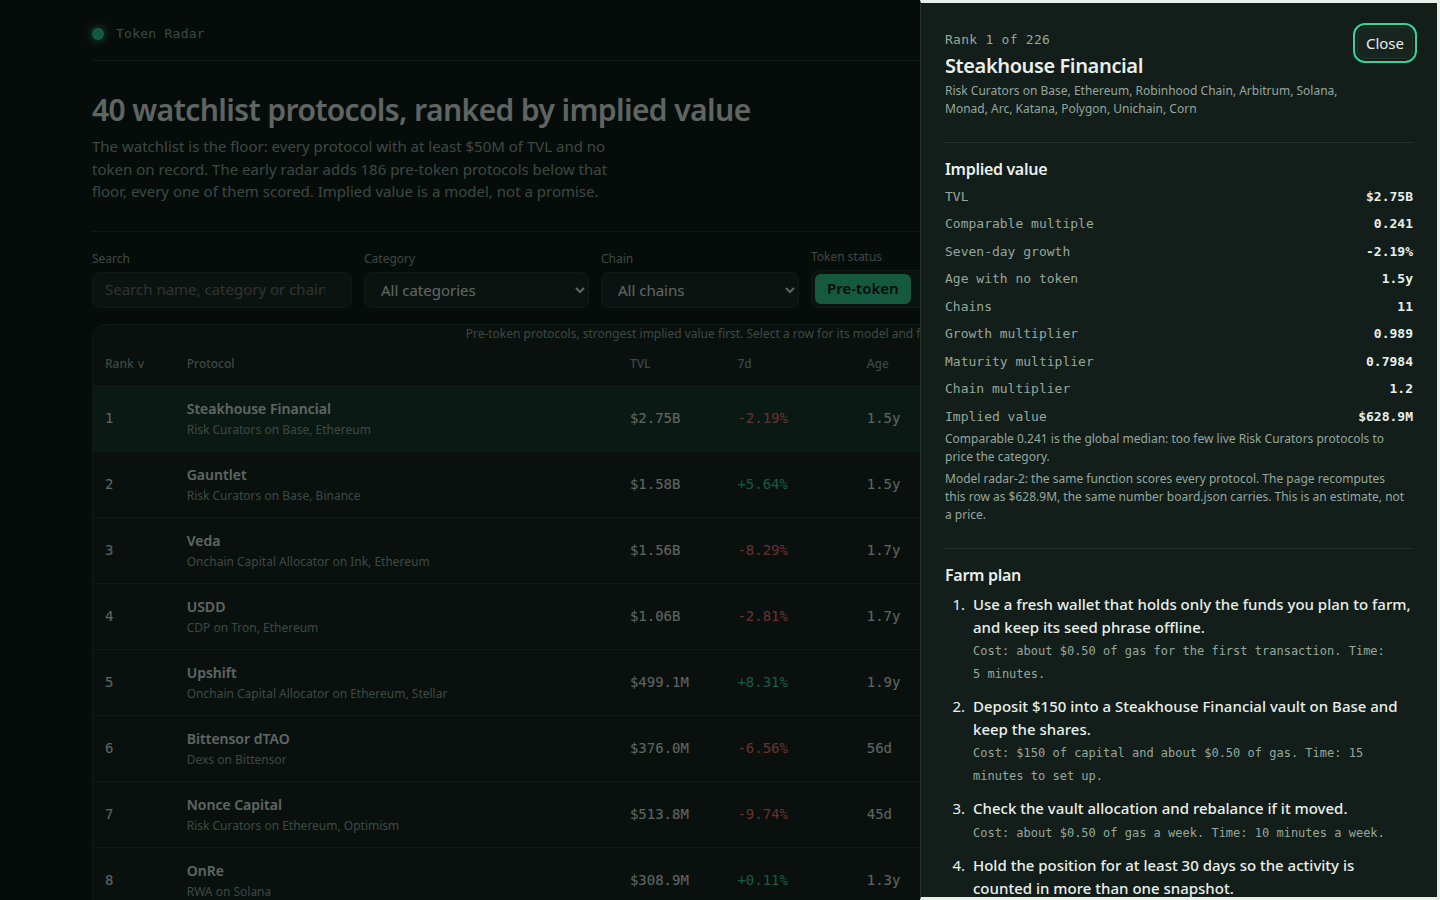
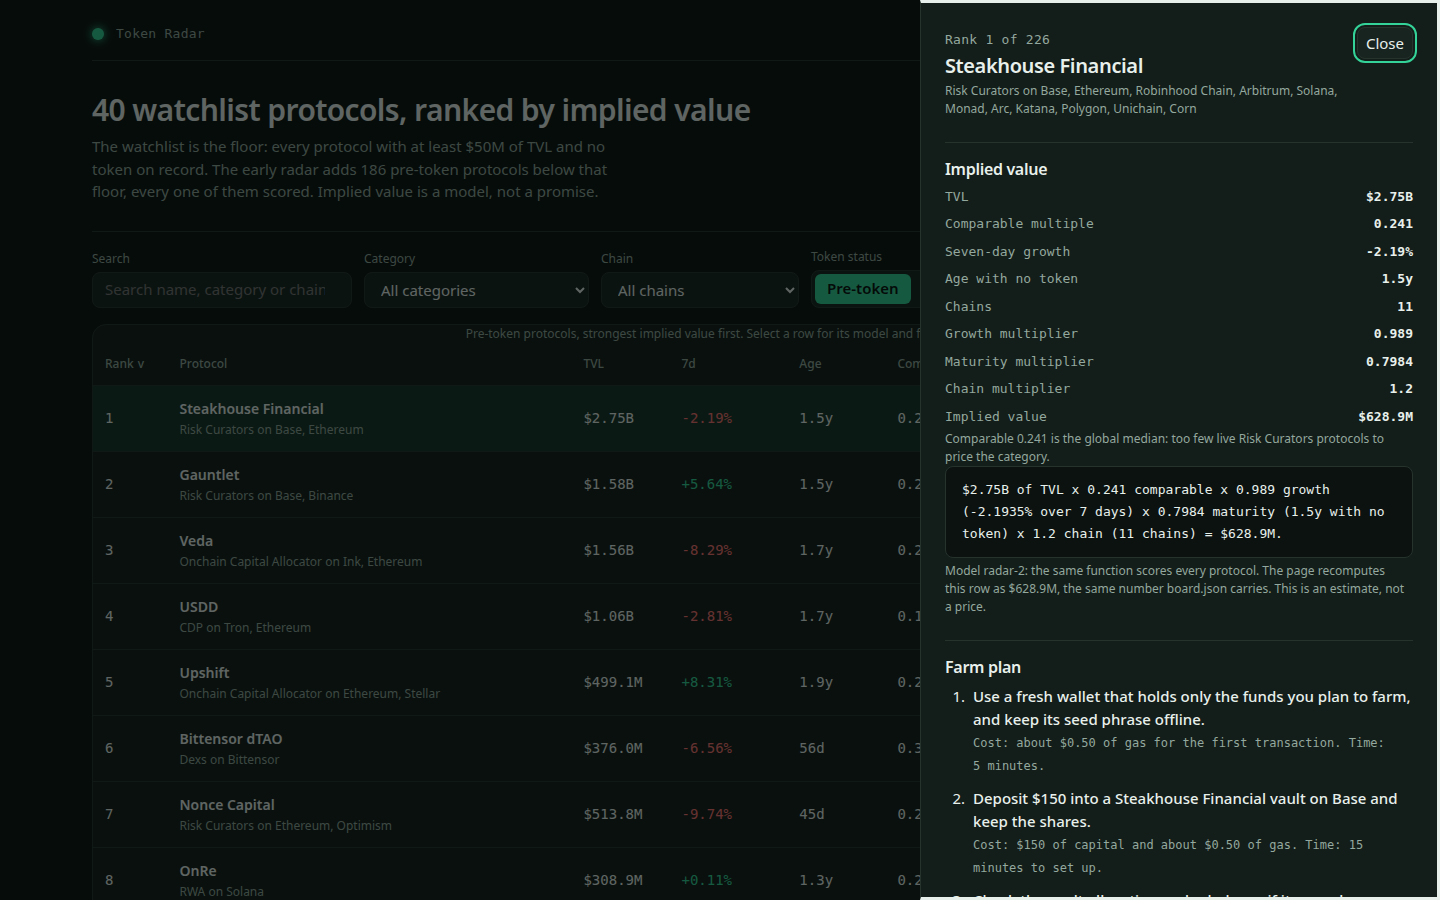
radar-2: category breakdown, per-row derivation, watchlist toggle, live ratios
- lib/model.ts: explainRow (one-sentence derivation per row), categoryBreakdown
  (board grouped by category, richest first), comparableStats (how the
  multiples spread), LiveRow.ratio (each live protocol's own mcap/TVL),
  watchlist_slugs in the dashboard data.
- dashboard: category table below the board (click a category to filter),
  Comparable column on the board, Mcap/TVL column on the live view,
  watchlist-only toggle, derivation sentence in the detail drawer,
  comparables spread in the model panel.
- main.ts prints the three richest categories; README gains a how-to-read
  section.

diff --git a/dashboard/app.js b/dashboard/app.js
@@ -8,7 +8,7 @@
   var DATA = window.RADAR;
   if (!DATA) return;
   var app = document.getElementById('board');
-  var state = { q: '', category: 'all', chain: 'all', tab: 'pre-token', sort: 'implied', dir: -1, selected: null };
+  var state = { q: '', category: 'all', chain: 'all', watchlistOnly: false, tab: 'pre-token', sort: 'implied', dir: -1, selected: null };
   // The sandbox: a scale on the comparable multiple, an override for the growth weight, and the
   // chain factor on or off. All three at their defaults mean the board as scored; any change
   // re-ranks the table live and says so, without touching board.json.
@@ -180,7 +180,10 @@
 
   function rows() {
     var q = state.q.trim().toLowerCase();
+    var watch = {};
+    (DATA.watchlist_slugs || []).forEach(function (s) { watch[s] = true; });
     return DATA.rows.filter(function (r) {
+      if (state.watchlistOnly && !watch[r.slug]) return false;
       if (state.category !== 'all' && r.category !== state.category) return false;
       if (state.chain !== 'all' && (r.chains || []).indexOf(state.chain) < 0) return false;
       if (!q) return true;
@@ -248,6 +251,7 @@
     chainSelect.addEventListener('change', function () { state.chain = chainSelect.value; writeHash(); render(); });
     var pre = el('button', { type: 'button', 'aria-pressed': state.tab === 'pre-token' ? 'true' : 'false', text: 'Pre-token', onclick: function () { state.tab = 'pre-token'; render(); } });
     var live = el('button', { type: 'button', 'aria-pressed': state.tab === 'live' ? 'true' : 'false', text: 'Live token', onclick: function () { state.tab = 'live'; render(); } });
+    var watchToggle = el('button', { type: 'button', 'aria-pressed': state.watchlistOnly ? 'true' : 'false', text: state.watchlistOnly ? 'Watchlist only' : 'Watchlist + early', onclick: function () { state.watchlistOnly = !state.watchlistOnly; render(); } });
     var countText = state.tab === 'pre-token' ? rows().length + ' rows shown' : DATA.live.length + ' live-token protocols';
     if (state.tab === 'pre-token' && sandboxActive()) countText += '  ·  sandbox values';
     return el('div', { class: 'controls' },
@@ -255,6 +259,7 @@
       el('div', { class: 'field' }, el('label', { for: 'category', text: 'Category' }), select),
       el('div', { class: 'field' }, el('label', { for: 'chain', text: 'Chain' }), chainSelect),
       el('div', { class: 'field' }, el('span', { class: 'sub', text: 'Token status' }), el('div', { class: 'tabs' }, pre, live)),
+      el('div', { class: 'field' }, el('span', { class: 'sub', text: 'Board scope' }), el('div', { class: 'tabs' }, watchToggle)),
       el('span', { class: 'count', text: countText })
     );
   }
@@ -297,6 +302,7 @@
         el('td', { class: 'num', text: fmtUsd(r.tvl_usd) }),
         el('td', { class: 'num ' + growthClass, text: growth }),
         el('td', { class: 'num', text: fmtAge(r.age_days) }),
+        el('td', { class: 'num', text: String(r.comparable_multiple) }),
         el('td', null, el('div', { class: 'implied' },
           el('div', { class: 'bar', 'aria-hidden': 'true' }, el('i', { style: 'width:' + Math.max(3, Math.round((effImplied(r) / max) * 100)) + '%' })),
           el('span', { class: 'num', text: fmtUsd(effImplied(r)) })
@@ -315,6 +321,7 @@
             sortHeader('tvl', 'TVL'),
             sortHeader('growth', '7d'),
             sortHeader('age', 'Age'),
+            el('th', { scope: 'col', text: 'Comparable' }),
             sortHeader('implied', 'Implied value'),
             el('th', { scope: 'col', text: 'Token' })
           )),
@@ -333,6 +340,7 @@
         el('td', { class: 'num', text: fmtUsd(r.tvl_usd) }),
         el('td', { class: 'num ' + (r.change_7d !== null && r.change_7d >= 0 ? 'pos' : 'neg'), text: fmtPct(r.change_7d) }),
         el('td', { class: 'num', text: fmtUsd(r.mcap_usd) }),
+        el('td', { class: 'num', text: r.ratio === null || r.ratio === undefined ? 'n/a' : String(r.ratio) }),
         el('td', null, el('span', { class: 'status', text: 'already trades' }))
       ));
     });
@@ -340,7 +348,50 @@
       el('div', { class: 'table-wrap' },
         el('table', null,
           el('caption', { class: 'sub', text: 'Token live: these protocols already trade, so their market cap is a fact, not a model. They are set aside from the pre-token ranking.' }),
-          el('thead', null, el('tr', null, el('th', { scope: 'col', text: 'Status' }), el('th', { scope: 'col', text: 'Protocol' }), el('th', { scope: 'col', text: 'TVL' }), el('th', { scope: 'col', text: '7d' }), el('th', { scope: 'col', text: 'Market cap' }), el('th', { scope: 'col', text: 'Token' }))),
+          el('thead', null, el('tr', null, el('th', { scope: 'col', text: 'Status' }), el('th', { scope: 'col', text: 'Protocol' }), el('th', { scope: 'col', text: 'TVL' }), el('th', { scope: 'col', text: '7d' }), el('th', { scope: 'col', text: 'Market cap' }), el('th', { scope: 'col', text: 'Mcap / TVL' }), el('th', { scope: 'col', text: 'Token' }))),
+          tbody
+        )
+      )
+    );
+  }
+
+  // The board grouped by category, richest first: which categories hold the implied value, what
+  // multiple priced each one, and its strongest protocol. A category priced from its own live
+  // protocols shows its count; a fallback category shows the global median instead.
+  function categoryPanel() {
+    var cats = DATA.categories || [];
+    if (cats.length === 0) return null;
+    var tbody = el('tbody');
+    cats.forEach(function (c) {
+      var comp = c.comparable_n > 0 ? String(c.comparable_multiple) + ' (' + c.comparable_n + ' live)' : String(c.comparable_multiple) + ' (global)';
+      tbody.appendChild(el('tr', {
+        tabindex: '0',
+        onclick: function () { state.category = c.category; writeHash(); render(); },
+        onkeydown: function (e) { if (e.key === 'Enter' || e.key === ' ') { e.preventDefault(); state.category = c.category; writeHash(); render(); } }
+      },
+        el('td', null, el('b', { text: c.category })),
+        el('td', { class: 'num', text: String(c.rows) }),
+        el('td', { class: 'num', text: String(c.watchlist_rows) }),
+        el('td', { class: 'num', text: comp }),
+        el('td', { class: 'num', text: fmtUsd(c.total_implied_usd) }),
+        el('td', null, el('span', { class: 'sub', text: c.top_name }))
+      ));
+    });
+    return el('section', { class: 'panel cats' },
+      el('div', { class: 'cats-head' },
+        el('h2', { text: 'Implied value by category' }),
+        el('p', { class: 'sub', text: 'Select a category to filter the board to it. The multiple is the category’s own median market-cap / TVL among its live protocols, or the global median where the category is too thin to price itself.' })
+      ),
+      el('div', { class: 'table-wrap' },
+        el('table', null,
+          el('thead', null, el('tr', null,
+            el('th', { scope: 'col', text: 'Category' }),
+            el('th', { scope: 'col', text: 'Protocols' }),
+            el('th', { scope: 'col', text: 'On watchlist' }),
+            el('th', { scope: 'col', text: 'Comparable' }),
+            el('th', { scope: 'col', text: 'Total implied value' }),
+            el('th', { scope: 'col', text: 'Strongest protocol' })
+          )),
           tbody
         )
       )
@@ -354,7 +405,8 @@
       el('h2', { text: 'How implied value is computed' }),
       el('p', { class: 'sub', text: 'Every row is scored by one function of the snapshot figures. No protocol name is special-cased, and no row is hand-picked.' }),
       el('div', { class: 'formula' }, formula),
-      el('p', { class: 'sub', text: 'The comparable is the category’s own multiple: the median market-cap / TVL ratio of the live-token protocols in that category in this same snapshot. A pre-token DEX is worth what live DEXs trade at per dollar of TVL; a pre-token lender is worth what live lenders trade at. Categories with fewer than three live protocols fall back to the global median, ' + DATA.global_comparable + '. The multiple is clamped to [' + m.comparable_floor + ', ' + m.comparable_cap + '] and rounded to four decimals when it is scored. Age is the time since the protocol was first listed, the best record of how long it has run with no token; an unlisted age uses ' + m.unknown_age_days + ' days. The early radar is every pre-token protocol below the watchlist floor, and the live-token protocols are set aside with their market caps shown.' })
+      el('p', { class: 'sub', text: 'The comparable is the category’s own multiple: the median market-cap / TVL ratio of the live-token protocols in that category in this same snapshot. A pre-token DEX is worth what live DEXs trade at per dollar of TVL; a pre-token lender is worth what live lenders trade at. Categories with fewer than three live protocols fall back to the global median, ' + DATA.global_comparable + '. The multiple is clamped to [' + m.comparable_floor + ', ' + m.comparable_cap + '] and rounded to four decimals when it is scored. Age is the time since the protocol was first listed, the best record of how long it has run with no token; an unlisted age uses ' + m.unknown_age_days + ' days. The early radar is every pre-token protocol below the watchlist floor, and the live-token protocols are set aside with their market caps shown.' }),
+      el('p', { class: 'sub', text: 'Across the ' + DATA.categories.length + ' categories on the board, ' + DATA.comparable_stats.categories_priced + ' price themselves from their own live protocols and ' + DATA.comparable_stats.categories_fallback + ' fall back to the global median. The multiples run from ' + DATA.comparable_stats.min_multiple + ' to ' + DATA.comparable_stats.max_multiple + ', median ' + DATA.comparable_stats.median_multiple + '.' })
     );
     // The sandbox: three controls that re-score the board in the page, under different assumptions.
     var scaleOut = el('output', { id: 'sandbox-scale-out', text: 'x' + sandbox.scale.toFixed(2) });
@@ -417,6 +469,7 @@
         el('div', null, el('span', { text: 'Implied value' }), el('b', { class: 'num', text: fmtUsd(row.implied_value_usd) }))
       ),
       el('p', { class: 'sub', text: compNote + '. ' }),
+      el('p', { class: 'explain', text: row.explanation || '' }),
       el('p', { class: 'sub', text: 'Model ' + DATA.model_version + ': the same function scores every protocol. The page recomputes this row as ' + fmtUsd(recomputed) + (recomputed === row.implied_value_usd ? ', the same number board.json carries.' : ', which differs from the board: the sandbox is on, or the data would be stale.') + ' This is an estimate, not a price.' })
     ));
     dialog.appendChild(el('section', { class: 'detail-section' },
@@ -442,7 +495,11 @@
     shell.appendChild(lede());
     shell.appendChild(controls());
     shell.appendChild(state.tab === 'pre-token' ? boardTable() : liveTable());
-    if (state.tab === 'pre-token') shell.appendChild(modelPanel());
+    if (state.tab === 'pre-token') {
+      var cats = categoryPanel();
+      if (cats) shell.appendChild(cats);
+      shell.appendChild(modelPanel());
+    }
     app.appendChild(shell);
     app.setAttribute('aria-busy', 'false');
     if (!dialog.isConnected) app.appendChild(dialog);

diff --git a/lib/model.ts b/lib/model.ts
@@ -123,6 +123,8 @@ export interface BoardRow {
     age_days: number | null;
   };
   farm_steps: string[];
+  /** The row's derivation as a sentence, for the detail view. */
+  explanation: string;
 }
 
 /** The dashboard's compact view of one row, with farm plans generated in the page. */
@@ -144,6 +146,8 @@ export interface RadarRow {
   growth_multiplier: number;
   maturity_multiplier: number;
   chain_multiplier: number;
+  /** The row's derivation as a sentence, for the detail view. */
+  explanation: string;
 }
 
 /** A live-token protocol: it already trades, so the board shows the market's own value, not a model's. */
@@ -155,6 +159,8 @@ export interface LiveRow {
   tvl_usd: number;
   mcap_usd: number | null;
   change_7d: number | null;
+  /** The market-cap / TVL ratio this protocol itself trades at: the comparable its category is priced from. */
+  ratio: number | null;
 }
 
 /** Everything the dashboard needs: the board, the live set, and the model it runs. */
@@ -165,10 +171,16 @@ export interface RadarData {
   model: ModelConstants;
   model_version: string;
   watchlist_size: number;
+  /** The watchlist's slugs, so the page can filter to the watchlist alone. */
+  watchlist_slugs: string[];
   board_size: number;
   early_size: number;
   live_size: number;
   global_comparable: number;
+  /** The board grouped by category, richest first, for the dashboard's category table. */
+  categories: CategoryStat[];
+  /** How the comparables themselves spread, for the model panel. */
+  comparable_stats: ComparableStats;
   rows: RadarRow[];
   live: LiveRow[];
 }
@@ -259,6 +271,97 @@ export function comparableFor(p: SnapshotProtocol, comparables: Comparables): Co
   return { multiple: comparables.global, n: 0 };
 }
 
+/** A dollar figure as the explanation writes it: $2.75B, $543.6M, $214.2M. */
+function fmtUsd(n: number): string {
+  if (!Number.isFinite(n)) return 'n/a';
+  if (Math.abs(n) >= 1e9) return `$${(n / 1e9).toFixed(2)}B`;
+  if (Math.abs(n) >= 1e6) return `$${(n / 1e6).toFixed(1)}M`;
+  if (Math.abs(n) >= 1e3) return `$${Math.round(n / 1e3)}K`;
+  return `$${Math.round(n)}`;
+}
+
+/** An age in days as the explanation writes it: 1.5y, 45d, unknown. */
+function fmtAge(days: number | null): string {
+  if (days === null) return 'unknown';
+  if (days >= 365) return `${(days / 365).toFixed(1)}y`;
+  return `${Math.max(0, Math.round(days))}d`;
+}
+
+/** One row's derivation as a sentence: the arithmetic the detail view shows, in words. */
+export function explainRow(row: BoardRow): string {
+  const m = row.model;
+  const growth = m.growth_pct >= 0 ? `+${m.growth_pct}%` : `${m.growth_pct}%`;
+  const chains = `${row.chains.length} chain${row.chains.length === 1 ? '' : 's'}`;
+  return `${fmtUsd(row.tvl_usd)} of TVL x ${m.comparable_multiple} comparable x ${m.growth_multiplier} growth (${growth} over 7 days) x ${m.maturity_multiplier} maturity (${fmtAge(m.age_days)} with no token) x ${m.chain_multiplier} chain (${chains}) = ${fmtUsd(row.implied_value_usd)}.`;
+}
+
+/** One category's share of the board: how many rows, what multiple priced them, what they are worth together. */
+export interface CategoryStat {
+  category: string;
+  rows: number;
+  watchlist_rows: number;
+  comparable_multiple: number;
+  comparable_n: number;
+  total_implied_usd: number;
+  top_slug: string;
+  top_name: string;
+}
+
+/** The board grouped by category, richest first: the dashboard's category table. */
+export function categoryBreakdown(board: BoardRow[], watchlist: string[]): CategoryStat[] {
+  const byCat = new Map<string, BoardRow[]>();
+  for (const r of board) {
+    const key = r.category ?? 'Other';
+    const list = byCat.get(key);
+    if (list === undefined) byCat.set(key, [r]);
+    else list.push(r);
+  }
+  const watch = new Set(watchlist);
+  const stats = [...byCat.entries()].map(([category, rows]) => {
+    const sorted = [...rows].sort((a, b) => b.implied_value_usd - a.implied_value_usd);
+    const top = sorted[0]!;
+    return {
+      category,
+      rows: rows.length,
+      watchlist_rows: rows.filter((r) => watch.has(r.slug)).length,
+      comparable_multiple: top.model.comparable_multiple,
+      comparable_n: top.model.comparable_n,
+      total_implied_usd: rows.reduce((sum, r) => sum + r.implied_value_usd, 0),
+      top_slug: top.slug,
+      top_name: top.name,
+    };
+  });
+  stats.sort((a, b) => b.total_implied_usd - a.total_implied_usd || (a.category < b.category ? -1 : a.category > b.category ? 1 : 0));
+  return stats;
+}
+
+/** How the comparables themselves spread: how many categories price themselves, and the range of multiples. */
+export interface ComparableStats {
+  categories_priced: number;
+  categories_fallback: number;
+  min_multiple: number;
+  median_multiple: number;
+  max_multiple: number;
+}
+
+/** The comparables' own summary, from the categories the board actually holds. */
+export function comparableStats(board: BoardRow[], comparables: Comparables): ComparableStats {
+  const seen = new Map<string, number>();
+  for (const r of board) {
+    const key = r.category ?? 'Other';
+    if (!seen.has(key)) seen.set(key, r.model.comparable_multiple);
+  }
+  const multiples = [...seen.values()].sort((a, b) => a - b);
+  const priced = [...seen.keys()].filter((c) => comparables.byCategory.has(c)).length;
+  return {
+    categories_priced: priced,
+    categories_fallback: seen.size - priced,
+    min_multiple: multiples[0] ?? comparables.global,
+    median_multiple: multiples.length > 0 ? median(multiples) : comparables.global,
+    max_multiple: multiples[multiples.length - 1] ?? comparables.global,
+  };
+}
+
 /** The four multipliers and the implied value one protocol gets under `model`. */
 export function impliedValue(
   protocol: SnapshotProtocol,
@@ -330,7 +433,7 @@ export function buildBoard(snapshot: Snapshot, model: ModelConstants = MODEL): B
     return { p, implied, comparable, growthPct, growthMult, maturityMult, chainMult, age };
   });
   scored.sort((a, b) => b.implied - a.implied || (a.p.slug < b.p.slug ? -1 : a.p.slug > b.p.slug ? 1 : 0));
-  return scored.map((s, i) => ({
+  const rows: BoardRow[] = scored.map((s, i) => ({
     rank: i + 1,
     slug: s.p.slug,
     name: s.p.name,
@@ -355,7 +458,11 @@ export function buildBoard(snapshot: Snapshot, model: ModelConstants = MODEL): B
       age_days: s.age,
     },
     farm_steps: farmSteps(s.p, s.age).map(stepText),
+    explanation: '',
   }));
+  // The derivation sentence needs the finished row, so it is attached in a second pass.
+  for (const r of rows) r.explanation = explainRow(r);
+  return rows;
 }
 
 const round4 = (n: number): number => Math.round(n * 1e4) / 1e4;
@@ -496,6 +603,7 @@ export function liveRows(snapshot: Snapshot): LiveRow[] {
       tvl_usd: p.tvl_usd,
       mcap_usd: p.mcap_usd,
       change_7d: p.change_7d,
+      ratio: p.mcap_usd !== null && p.tvl_usd > 0 ? Math.round((p.mcap_usd / p.tvl_usd) * 1e4) / 1e4 : null,
     }));
 }
 
@@ -519,6 +627,7 @@ export function radarRow(row: BoardRow): RadarRow {
     growth_multiplier: row.model.growth_multiplier,
     maturity_multiplier: row.model.maturity_multiplier,
     chain_multiplier: row.model.chain_multiplier,
+    explanation: row.explanation,
   };
 }
 
@@ -535,10 +644,13 @@ export function buildRadar(snapshot: Snapshot, model: ModelConstants = MODEL): {
     model,
     model_version: MODEL_VERSION,
     watchlist_size: snapshot.watchlist.length,
+    watchlist_slugs: snapshot.watchlist,
     board_size: board.length,
     early_size: early,
     live_size: live.length,
     global_comparable: round4(comparables.global),
+    categories: categoryBreakdown(board, snapshot.watchlist),
+    comparable_stats: comparableStats(board, comparables),
     rows: board.map(radarRow),
     live,
   };

diff --git a/dashboard/app.css b/dashboard/app.css
@@ -102,6 +102,10 @@ tbody tr[data-selected="true"] { background: color-mix(in srgb, var(--accent) 12
 .status::before { content: ""; width: 6px; height: 6px; border-radius: 50%; background: var(--accent); }
 
 .model { margin-top: var(--step-4); padding: var(--step-5); display: grid; gap: var(--step-3); }
+.cats { margin-top: var(--step-4); padding: var(--step-5); display: grid; gap: var(--step-3); }
+.cats-head { display: grid; gap: var(--step-1); }
+.cats tbody tr { cursor: pointer; }
+.explain { font-family: var(--font-num); font-size: 13px; line-height: 1.7; color: var(--ink); background: var(--canvas); border: 1px solid var(--border); border-radius: var(--radius-control); padding: var(--step-3) var(--step-4); overflow-wrap: anywhere; }
 .formula { font-family: var(--font-num); font-size: 13px; line-height: 1.7; color: var(--muted); overflow-wrap: anywhere; background: var(--canvas); border: 1px solid var(--border); border-radius: var(--radius-control); padding: var(--step-3) var(--step-4); }
 .empty { padding: var(--step-7) var(--step-5); text-align: center; display: grid; gap: var(--step-3); justify-items: center; }
 .empty p { color: var(--muted); }

diff --git a/main.ts b/main.ts
@@ -52,6 +52,11 @@ if (issue !== null) {
   process.stderr.write(`token radar: the model wrote a board the gate refuses: ${issue}\n`);
   process.exit(1);
 }
+// The richest three categories, for the build log: where the implied value sits.
+const topCats = radar.categories
+  .slice(0, 3)
+  .map((c) => `${c.category} $${Math.round(c.total_implied_usd / 1e6)}M`)
+  .join(', ');
 
 mkdirSync(out, { recursive: true });
 writeFileSync(join(out, 'board.json'), `${JSON.stringify({ rows: board })}\n`);
@@ -90,5 +95,6 @@ writeFileSync(join(out, 'dossier.json'), buildDossier(out, { text_max_bytes: TEX
 
 process.stdout.write(
   `token radar: ${snapshot.protocols.length} protocols, ${snapshot.watchlist.length} on the watchlist, ${board.length} rows scored (${radar.early_size} early, ${radar.live_size} live set aside), radar-2 global comparable ${radar.global_comparable}\n` +
+    `token radar: richest categories: ${topCats}\n` +
     `token radar: wrote ${join(out, 'board.json')}, ${join(out, 'data.js')}, ${join(out, 'dashboard')} (3 files), ${join(out, 'screenshots')} (${shots.length} images) and ${join(out, 'dossier.json')}\n`,
 );

diff --git a/README.md b/README.md
@@ -42,9 +42,26 @@ vendored make.fun library (`vendor/makefun-board.ts`, do not modify).
 ## The dashboard
 
 `dashboard/` is a static page with no network: it reads `data.js` beside it and renders the
-ranked board, a live-token view, search, category and chain filters, a per-protocol detail
-drawer (model breakdown plus farm plan), and a model sandbox that re-scores the board under
-different assumptions without touching `board.json`.
+ranked board, a live-token view, search, category and chain filters, a watchlist-only toggle,
+a per-protocol detail drawer (model breakdown plus farm plan), and a model sandbox that
+re-scores the board under different assumptions without touching `board.json`.
+
+Below the board, an "Implied value by category" table groups the board by category — how many
+protocols, how many on the watchlist, the comparable multiple that priced them, their total
+implied value, and the strongest protocol. Selecting a category filters the board to it. The
+live-token view shows each live protocol's own market-cap / TVL ratio, the numbers the
+comparables are medians of. Every detail drawer carries the row's derivation as one sentence,
+so the arithmetic is readable without opening the code.
+
+## How to read the board
+
+Start at rank 1: the strongest implied value, not the biggest TVL. A protocol ranks high when
+its category trades richly (a high comparable), its TVL is large, it has grown in the last
+seven days, it has run a long time with no token, and it runs on many chains. The Comparable
+column shows the multiple each row was priced at; a row on the global median (0.241 in this
+snapshot) belongs to a category too thin to price itself. The sandbox lets you test the
+ranking's sensitivity: scale the comparable, change the growth weight, switch the chain factor
+off, and watch the board re-rank.
 
 ## Farm plans
 
